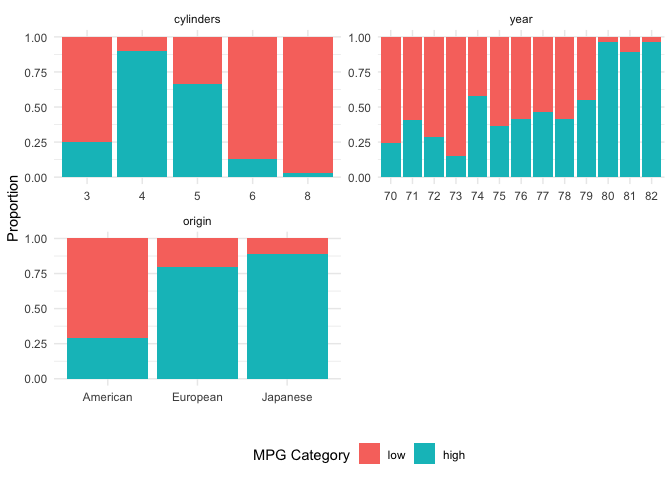
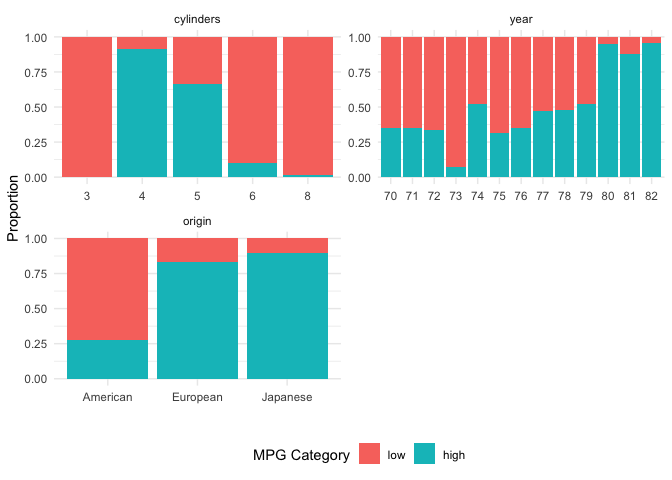
use train data for EDA plots

diff --git a/ds2_hw3.md b/ds2_hw3.md
@@ -153,6 +153,8 @@ predictors: `displacement`, `horsepower`, `weight`, `acceleration`, 3
 categorical predictors: `cylinders`, `year`, `origin`, and 1 categorical
 response variable: `mpg_cat`.
 
+For better illustration, all EDA plots are done using train data.
+
 ``` r
 # visualization for numeric variables using feature plot
 
@@ -162,8 +164,8 @@ trellis.par.set(theme1)
 
 # density plot
 featurePlot(
-  x = auto %>% dplyr::select(displacement, horsepower, weight,  acceleration), 
-  y = auto$mpg_cat, 
+  x = train %>% dplyr::select(displacement, horsepower, weight,  acceleration), 
+  y = train$mpg_cat, 
   scales = list(x = list(relation = "free"),
                 y = list(relation = "free")),
   plot = "density",
@@ -179,7 +181,7 @@ weight, higher acceleration, lower displacement and lower horsepower.
 ``` r
 # visualization for categorical variables using ggplot
 
-auto %>% 
+train %>% 
   dplyr::select(-displacement, -horsepower, -weight, -acceleration) %>% 
   melt(id.vars = "mpg_cat") %>% 
   ggplot(aes(x = value, fill = mpg_cat)) + 
@@ -205,7 +207,7 @@ cylinders, model year 1908s, and origin of European and Japanese.
 partimat(
   mpg_cat ~ displacement + horsepower + weight + acceleration,
   data = auto,
-  # subset = index_train, # if want to use test data
+  subset = index_train,
   method = "lda")
 ```
 
@@ -222,7 +224,7 @@ space).
 
 ``` r
 # correlation plot for all data
-model.matrix(mpg_cat~., data = auto)[ , -1] %>% 
+model.matrix(mpg_cat~., data = train)[ , -1] %>% 
   cor(use = "pairwise.complete.obs") %>% 
   ggcorrplot(type = "full", lab = TRUE, lab_size = 1)
 ```
@@ -234,3 +236,5 @@ We can see from the correlation plot that the numeric predictors
 correlated, which may potentially result in some redundancy for model
 building.  
 Also, `cylinders8` is highly correlated with above numeric predictors.
+
+## Logistic Regression
